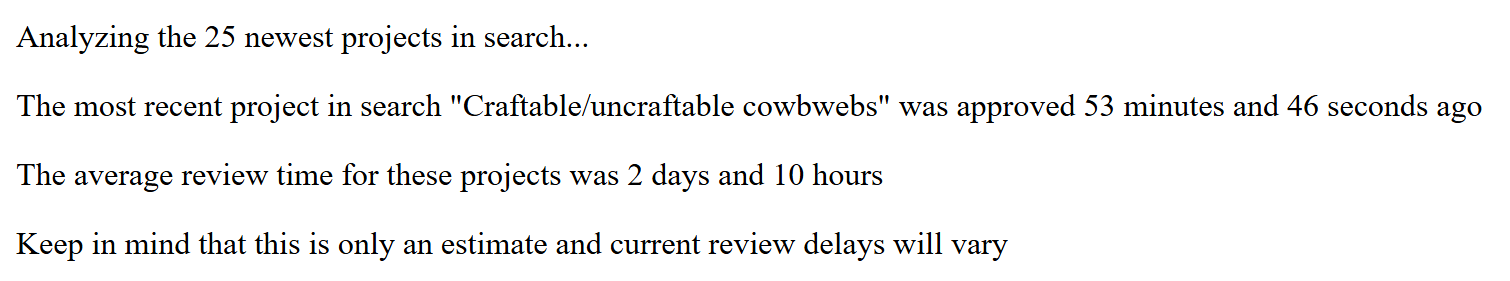
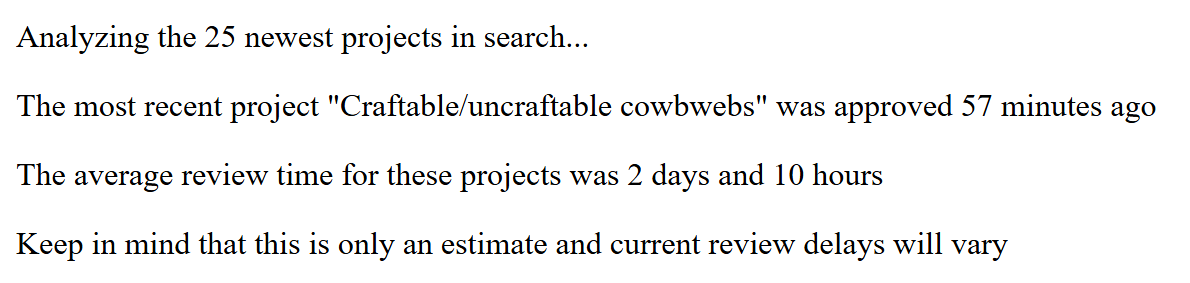
Adjust formatting a bit

diff --git a/main.js b/main.js
@@ -9,7 +9,7 @@ async function main() {
   const projects = await api(`projects?ids=${JSON.stringify(ids)}`)
 
   projects.sort((a, b) => new Date(a.approved) > new Date(b.approved) ? -1 : 0)
-  addLine(`The most recent project in search "${projects[0].title}" was approved ${formatDuration(new Date(projects[0].approved))} ago`)
+  addLine(`The most recent project "${projects[0].title}" was approved ${formatDuration(new Date(projects[0].approved))} ago`)
 
   const delays = projects.map(p => new Date(p.approved) - new Date(p.queued))
   const avgDelay = delays.reduce((a, b) => a + b, 0) / delays.length
@@ -41,12 +41,10 @@ function formatDuration(date) {
   const days = Math.floor(diff / 86400);
   const hours = Math.floor((diff % 86400) / 3600);
   const minutes = Math.floor((diff % 3600) / 60);
-  const seconds = diff % 60;
   const parts = [];
   if (days > 0) parts.push(`${days} days`);
   if (hours > 0) parts.push(`${hours} hours`);
   if (minutes > 0) parts.push(`${minutes} minutes`);
-  if (seconds > 0) parts.push(`${seconds} seconds`);
   return parts.slice(0, 2).join(" and ");
 }
 
